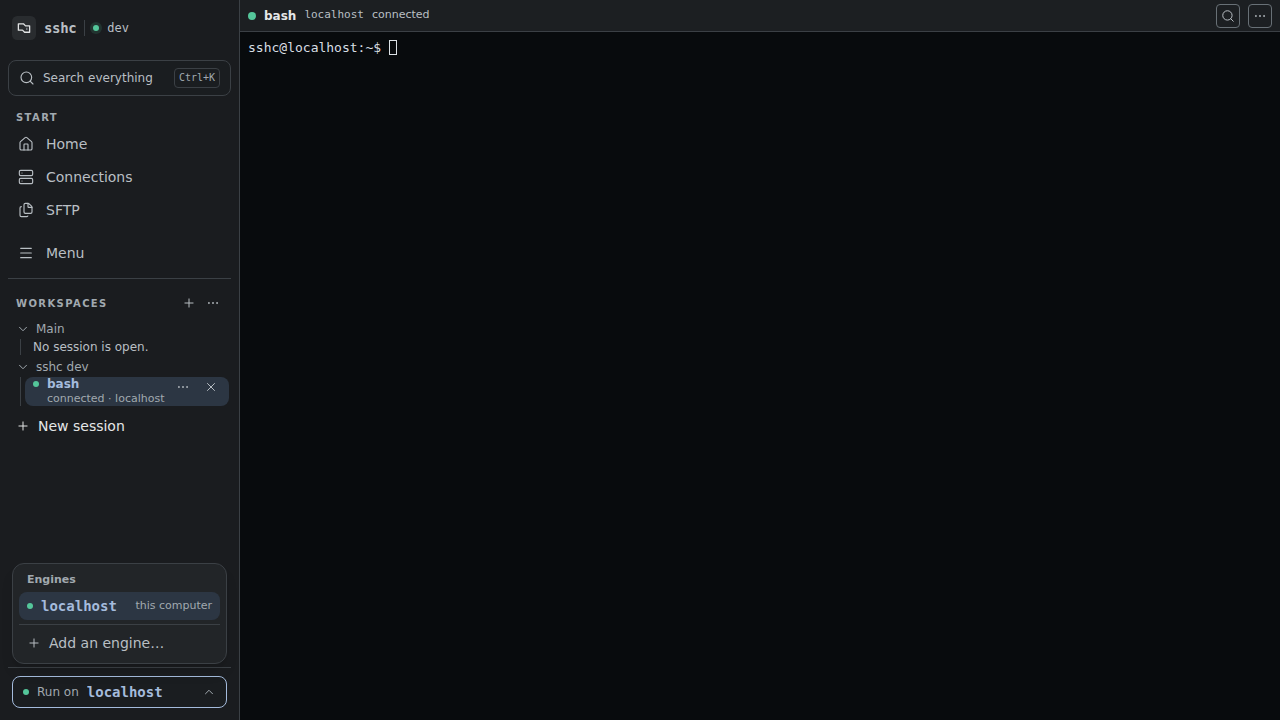
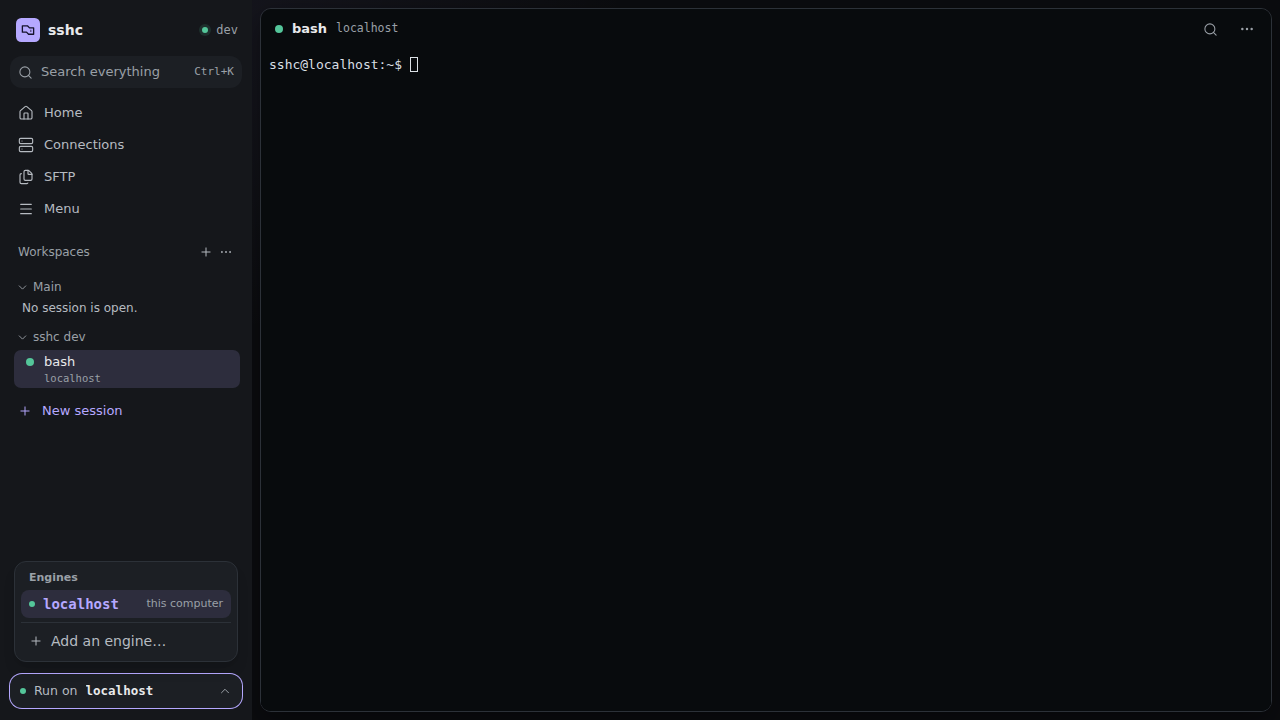
docs: pages とREADMEの画面写真を今の画面で撮り直す（INT-1） (#450)
* docs: pages の画像の撮り方を直す（準備）

Claude-Session: https://claude.ai/code/session_017mcNmkiD4CEjvoUz7PQSsD

* docs: 撮影の手順でトップの画像を4ペインの分割表示にし、プロンプトにマシン名を出さない

Claude-Session: https://claude.ai/code/session_017mcNmkiD4CEjvoUz7PQSsD

* docs: pages とREADMEの画面写真を今の画面で撮り直す

撮影の手順の、ポート転送の画像を撮るテストの名前が変わっていて撮れなくなっていたのも直す。

Claude-Session: https://claude.ai/code/session_017mcNmkiD4CEjvoUz7PQSsD

---------

diff --git a/web/e2e/split-view.spec.ts b/web/e2e/split-view.spec.ts
@@ -342,7 +342,8 @@ test("limits split view to four panes and shows the Japanese desktop layout", as
   await dragSession(page, { title: titles[4]!, target: pane(page, ids[0]!), edge: "left" });
   await expect(page.locator("[data-split-view-pane]")).toHaveCount(4);
   for (const [index, output] of ["build complete", "GET /health 200 OK", "tests passed", "all services running"].entries()) {
-    await runCommand(pane(page, ids[index]!), `printf '\\033[2J\\033[H%s\\n' '${output}'`);
+    // The prompt is fixed so that a screenshot shows neither this machine's user name nor its hostname.
+    await runCommand(pane(page, ids[index]!), `export PS1='sshc@localhost:~$ '; printf '\\033[2J\\033[H%s\\n' '${output}'`);
     await expect(pane(page, ids[index]!)).toContainText(output);
   }
   await changeDisplayLanguage(page, "ja");
